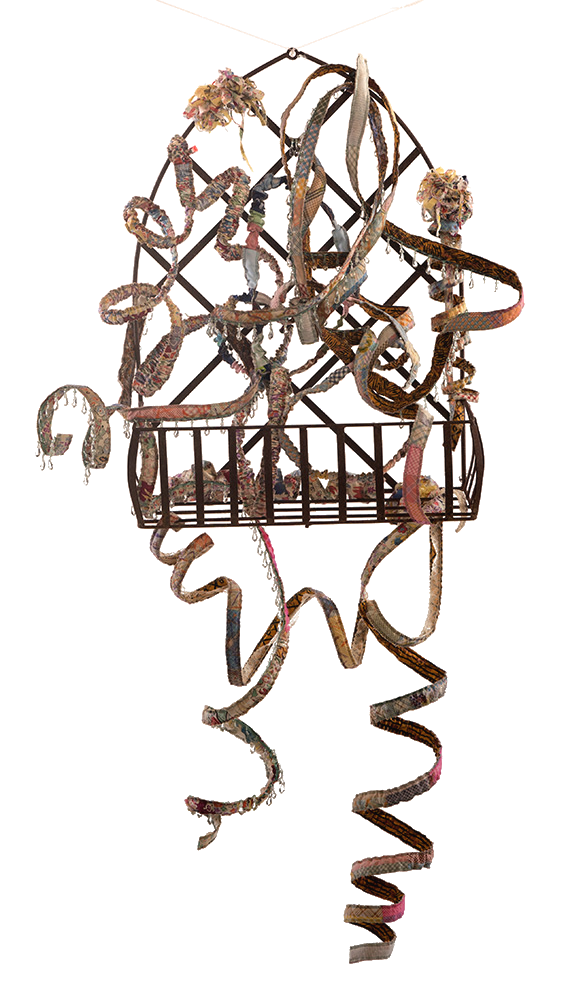
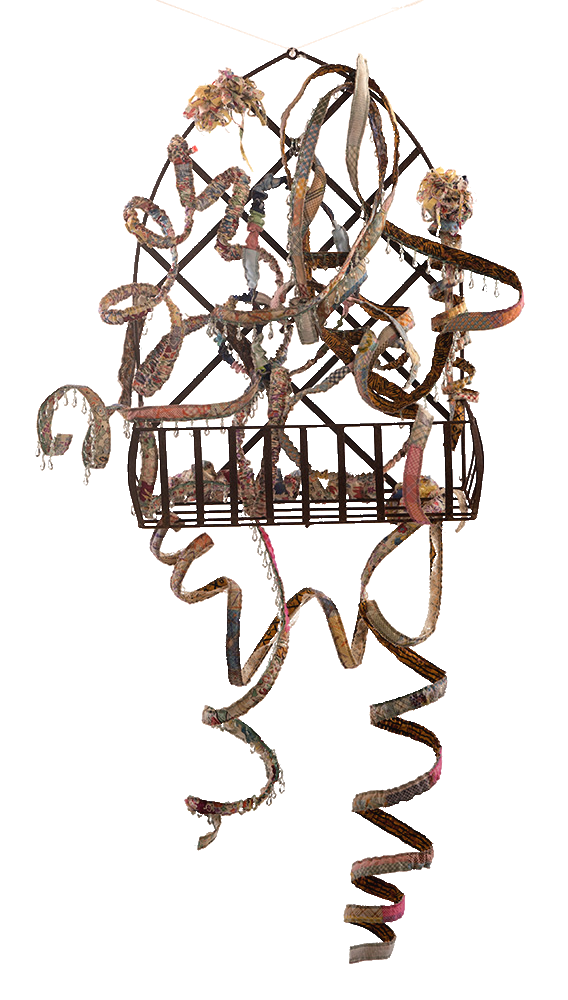
Round 10.5: grey-white fuzz removed from Resilience (edge layer v9.11, passed by both independent audits after twelve rounds); all nine works now on the v9 edge layers

Changed region(s): [[0.4789, 0.496, 0.6585, 0.527], [0.3592, 0.496, 0.4489, 0.527], [0.8081, 0.434, 0.838, 0.496]]

diff --git a/index.html b/index.html
@@ -1152,8 +1152,8 @@ html.walked-up .menu { z-index: 46; }
         "id": "resilience",
         "slug": "resilience",
         "title": "Altar of Resilience",
-        "img": "img/g10v3/station-resilience.jpg?v=b3533245",
-        "imgPortrait": "img/g10v3/station-resilience.jpg?v=b3533245",
+        "img": "img/g10v3/station-resilience.jpg?v=fb0c7177",
+        "imgPortrait": "img/g10v3/station-resilience.jpg?v=fb0c7177",
         "floorY": 960,
         "floorYPortrait": 960,
         "yawDeg": 80,
@@ -1180,11 +1180,11 @@ html.walked-up .menu { z-index: 46; }
           ],
           "viewNames": null
         },
[4 lines of base64/hex data omitted]
         "art9": {
           "land": {
-            "src": "img/art9/resilience-landscape.webp?v=a713a123",
+            "src": "img/art9/resilience-landscape.webp?v=90667c5a",
             "w": 568,
             "h": 1000,
             "rect": [
@@ -1195,7 +1195,7 @@ html.walked-up .menu { z-index: 46; }
             ]
           },
           "port": {
-            "src": "img/art9/resilience-landscape.webp?v=a713a123",
+            "src": "img/art9/resilience-landscape.webp?v=90667c5a",
             "w": 568,
             "h": 1000,
             "rect": [
@@ -1840,10 +1840,10 @@ html.walked-up .menu { z-index: 46; }
         "floorY": 641,
         "layout": "archive",
         "door": {
-          "img": "img/g10v3/door-exhibitions.jpg?v=479bd154",
-          "imgPortrait": "img/g10v3/door-exhibitions.jpg?v=479bd154",
-          "wall": "img/g10v3/door/door-exhibitions-wall.webp?v=22009a0d",
-          "wallPortrait": "img/g10v3/door/door-exhibitions-wall.webp?v=22009a0d",
+          "img": "img/g10v3/door-exhibitions.jpg?v=bf5461c3",
+          "imgPortrait": "img/g10v3/door-exhibitions.jpg?v=bf5461c3",
+          "wall": "img/g10v3/door/door-exhibitions-wall.webp?v=6ea22b05",
+          "wallPortrait": "img/g10v3/door/door-exhibitions-wall.webp?v=6ea22b05",
           "roomExt": "img/g10v2/door/room-exhibitions-ext.jpg?v=830f91b8",
           "roomExtSize": [
             1536,
